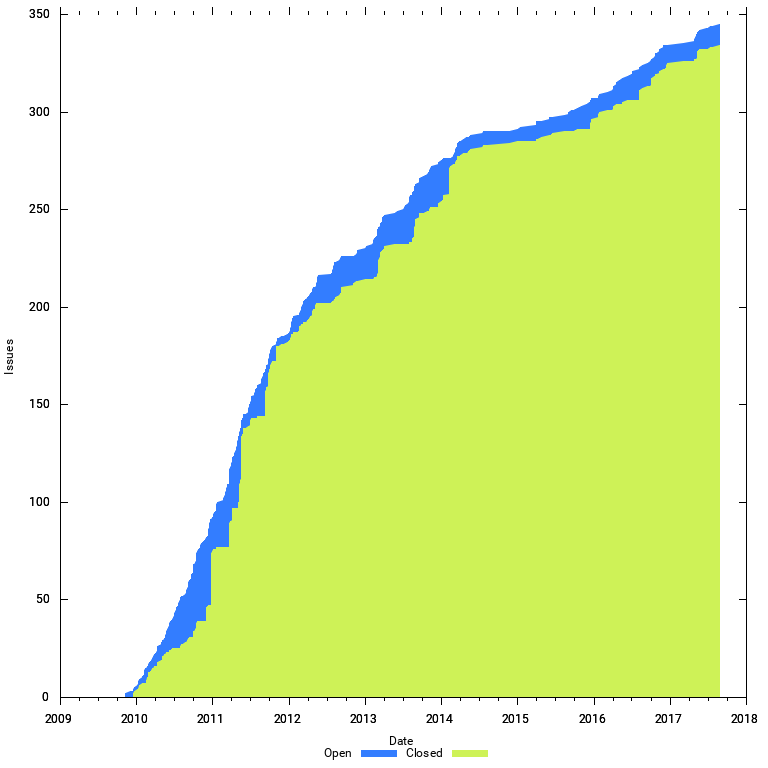
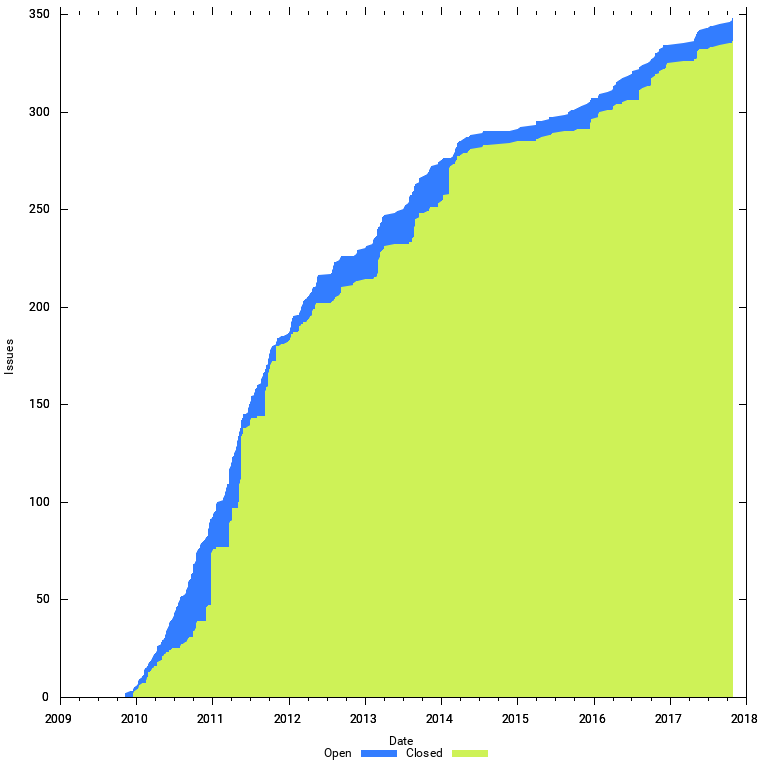
Update stats

Changed region(s): [[0.9375, 0.0312, 0.9688, 0.9062]]

diff --git a/CUCUMBER.md b/CUCUMBER.md
@@ -6,12 +6,13 @@ The charts below show some GitHub issue stats for various Cucumber repos.
 
 |                   | Open Issues   | Average Lead Time (days) | Open Issues Trend |
 | ----------------- | ------------- | -------------------------| ------------------|
-| Cucumber-Ruby     |            90 |                      152 |             ❌    |
-| Cucumber-JVM      |           112 |                      203 |             ✅    |
-| Cucumber.js       |            21 |                       20 |             ✅    |
+| Cucumber-Ruby     |            97 |                      132 |             ❌    |
+| Cucumber-Ruby Core|            14 |                      138 |             ✅    |
+| Cucumber-JVM      |            46 |                       42 |             ✅    |
+| Cucumber.js       |            20 |                       24 |             ✅    |
 | Aruba             |            56 |                      212 |             ❌    |
-| Cucumber-Rails    |            11 |                      266 |             ✅    |
-| Cucumber Monorepo |            66 |                      118 |             ❌    |
+| Cucumber-Rails    |            12 |                      184 |             ✅    |
+| Cucumber Monorepo |            63 |                      116 |             ❌    |
 
 ## Cucumber-Ruby
 
@@ -38,12 +39,36 @@ open tickets is still increasing.
 
 ![Closed Ticket Lead Time](repos/cucumber/cucumber-ruby/lts.png)
 
+## Cucumber-Ruby Core
+
+### Cumulative Flow Diagram
+
+![Cumulative Flow Diagram](repos/cucumber/cucumber-ruby-core/cfd.png)
+
+### Open Issues
+
+![Open Issues](repos/cucumber/cucumber-ruby-core/open.png)
+
+### Average Lead Time
+
+![Average Lead Time](repos/cucumber/cucumber-ruby-core/lt.png)
+
+### Closed Ticket Lead Time
+
+![Closed Ticket Lead Time](repos/cucumber/cucumber-ruby-core/lts.png)
+
 ## Cucumber-JVM
+
+*6 Nov 2017*
+
+In the past 3 months (Aug-Nov 2017) the number of open issues has been reduced
+from 110 to 46. The average LT is now 42 days. This is a great improvement, mostly
+due to the adoption of [stalebot](https://github.com/probot/stale).
 
 *21 Aug 2017* - The number of open issues have been steadily growing
 from since the inception of the project, until May 2017.
 
-In 4 months
+In the past 4 months
 (May-Aug 2017) the number of open tickets has been halved from 220 to 110,
 which is a tremendous effort.
 
